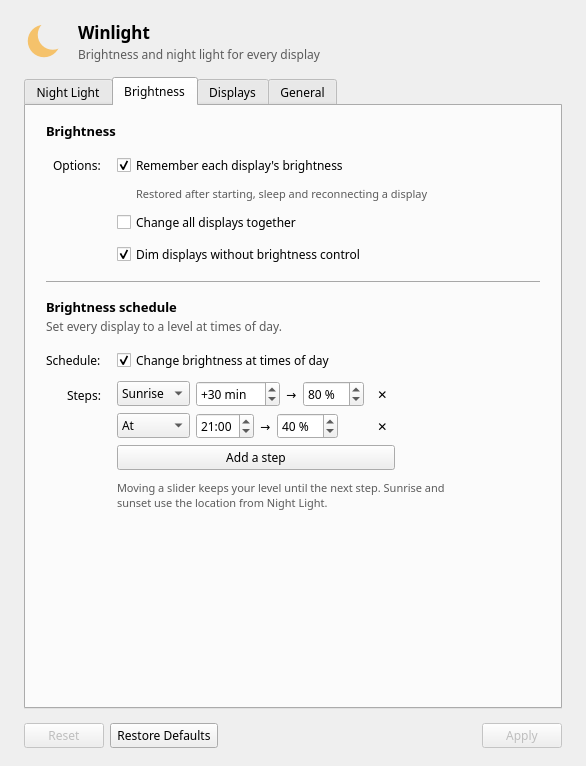
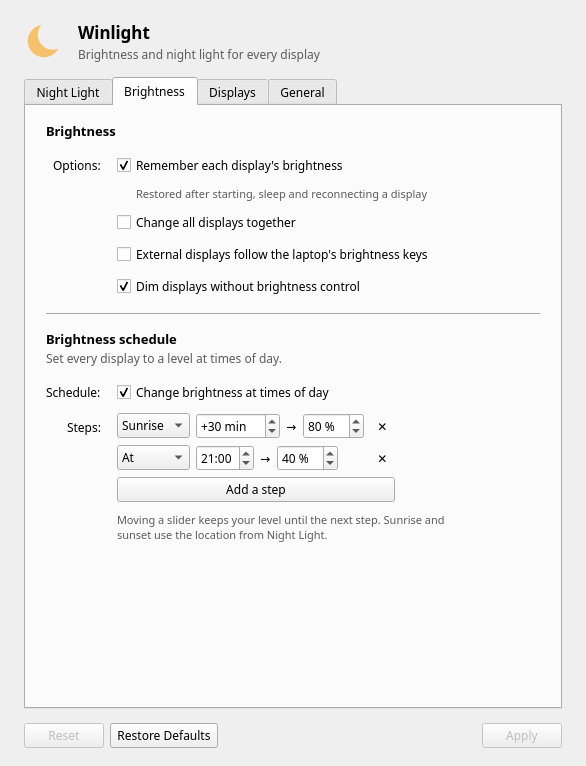
Docs: privacy, focus, laptop keys and wake timings
README features and known limits, both test plans (what to try and what
to send back, including the wake timing lines), and the design notes.
Screenshots show the new Brightness option.

Changed region(s): [[0.0614, 0.3303, 0.7679, 0.7206]]

diff --git a/README.md b/README.md
@@ -48,6 +48,10 @@ Brightness and night light for every display on Windows: external monitors, TVs 
 | Night light back at once after unlock and sleep | 🧪 Needs Windows testing | Listens for Windows' unlock, wake and display-on events, and checks the ramps every 1.5 s. |
 | Windows Night Light notice | 🧪 Needs Windows testing | Detects Windows Night Light from its registry state (undocumented) and offers to open its setting. |
 | One-click diagnostics, crash safe mode | 🧪 Needs Windows testing | "Report a Problem…" saves a zip and copies a summary; a display whose DDC/CI crashed or hung the app is skipped until retried. |
+| Private logs and reports | 🧪 Needs Windows testing | User name, computer name, home folder and emails are scrubbed from every log line and report; no location, custom names or listed app names are written. |
+| Never steals focus from fullscreen games | 🧪 Needs Windows testing | Windows' "don't interrupt" state and fullscreen detection keep Winlight from opening windows on its own over a game, video or presentation. |
+| Laptop brightness keys move external displays too | 🧪 Needs Windows testing | Optional. Follows the laptop panel's level rather than intercepting the keys. |
+| Displays followed after sleep | 🧪 Needs Windows testing | Re-detection at 2 s to 2 min after waking, each pass logged with its timing, stopping once every display is back. |
 | Multi-display detection, hotplug and sleep | 🧪 Needs Windows testing | Re-detection after display changes and waking, several times, as monitors are often slow to answer. |
 | Start at sign-in, start minimized | ✅ Ready | The current user's Run registry key; no administrator rights. |
 | Installer, portable zip, uninstaller | ✅ Ready | Per-user, built by GitHub Actions. |
@@ -99,6 +103,7 @@ Most of these were learned from [Monitorian](https://github.com/emoacht/Monitori
 - Most TVs don't support DDC/CI.
 - Gamma ramps belong to displays, not windows, so pausing night light for an app pauses it for that app's whole display.
 - Windows Night Light's state has no API; Winlight reads its undocumented registry value, and shows nothing if it can't tell.
+- Laptop brightness keys are handled by the laptop's firmware and Windows, not passed to apps, so Winlight can't take them over. It follows the brightness they set instead, which is reliable and doesn't need a keyboard hook (which games' anti-cheat may flag).
 - Running alongside Windows Night Light, f.lux or GPU color settings (such as AMD's "Custom Colors") may cause conflicts.
 
 ## 🗺 Roadmap
@@ -146,7 +151,9 @@ Display numbers are the order in the panel and in `--list`. Changes fade rather 
 
 ## 🐞 Reporting a problem
 
-Right-click the tray icon and choose **Report a Problem…**. Winlight saves a `Winlight-diagnostics-….zip` to your Desktop (logs, settings with the location rounded, and what it knows about each display) and copies a summary to the clipboard. Open an [issue](https://github.com/Arnie14/Night-Light-Windows/issues), paste the summary and attach the zip.
+Right-click the tray icon and choose **Report a Problem…**. Winlight saves a `Winlight-diagnostics-….zip` to your Desktop (logs, settings, and what it knows about each display) and copies a summary to the clipboard.
+
+Reports are meant to be posted publicly, so nothing personal goes in: your user name, computer name, home folder and email addresses are replaced with placeholders in every file, and your location, city, custom display names and the names of apps you listed aren't included at all. The same goes for the log file itself. Open an [issue](https://github.com/Arnie14/Night-Light-Windows/issues), paste the summary and attach the zip.
 
 ## ⬇ Download details
 
@@ -240,6 +247,9 @@ nightlight/
   commands.py, cli.py    the command line (winlight-cli) and what the app does for it
   diagnostics.py         "Report a Problem…"
   safe_mode.py           skipping displays whose DDC/CI crashed or hung the app
+  privacy.py             scrubbing personal details from logs and reports
+  brightness_keys.py     external displays following the laptop's brightness keys
+  wake_report.py         re-detecting displays after sleep, with timings in the log
   data/                  time zone table for picking a location (from tools/make_timezones.py)
 packaging/               Windows build: PyInstaller spec, Inno Setup script, icon, build.py
 tools/                   screenshots.py (README images), make_timezones.py

diff --git a/docs/windows-notes.md b/docs/windows-notes.md
@@ -194,6 +194,14 @@ Reading [Monitorian](https://github.com/emoacht/Monitorian), [Twinkle Tray](http
 - **One-click diagnostics** (Monitorian's FAQ asks for probe and operation logs; collecting them by hand is where reports stall).
   - ✅ Tray > Report a Problem…: a zip on the Desktop (summary, logs, settings with the location rounded) and the summary on the clipboard. No DDC/CI scan or tint, so it's safe any time.
 - **Smooth changes.** Starting at night fades in, quitting fades out, pausing and resuming fade, scheduled and command-line brightness changes fade.
+- **Not stealing focus from games.** Opening a window over an exclusive-fullscreen game can minimize it.
+  - ✅ `winsystem.user_busy()`: Windows' `SHQueryUserNotificationState` (busy, Direct3D fullscreen, presentation mode) or a fullscreen app in front. Winlight then doesn't open windows on its own (a second launch's panel, settings at sign-in); a setting, on by default. Opening it from the tray is never blocked (that click already left the game).
+- **Laptop brightness keys** (Twinkle Tray's hotkey settings note that Windows still handles them and laptop firmware may intercept them; #570 asks to follow WmiMonitorBrightnessEvent instead).
+  - ✅ `brightness_keys.py` doesn't intercept keys: it follows the panel's level, from Windows' power-setting notification for display brightness (`aded5e82-…`, when Windows sends it) and a 2 s check of the panel while the option is on, and sets external displays to match. Changes the app made itself within 2 s are its own echo and ignored, so the panel's own slider doesn't move the others. Testing will show which source fires on which laptops.
+- **After sleep**, the most reported DDC/CI problem in both projects.
+  - ✅ `wake_report.py`: re-detection at 2, 5, 10, 20, 30, 60 and 120 s after waking (Monitorian: 5–60 s), each pass logged with its time since waking, who answered and how long detection took, and a summary (also in diagnostics). It stops once every display that answered before sleep has answered twice in a row. Schedules now add up instead of replacing each other, so a display change right after waking no longer cuts the wake's schedule short; Windows' event and the clock check reporting the same wake count once.
+- **Privacy in logs and reports**: they get posted publicly.
+  - ✅ `privacy.py`: every log line and traceback, and every file in a report (old log lines too), has the user name, computer name, home folder and email addresses replaced. Nothing writes coordinates, cities, time zones, custom display names, listed app names (logged as "a listed app"), or command-line arguments. Report timestamps are in UTC.
 
 ## 9. Quirks and issues they ran into
 

diff --git a/docs/testing-installer.md b/docs/testing-installer.md
@@ -32,6 +32,7 @@ In the panel, click ⚙ (Settings):
 - [ ] **Sleep** the PC and wake it: same.
 - [ ] Settings → Night Light → tick **While an app is fullscreen**, Apply. Play a video fullscreen or start a game: that display fades to normal colors, the others stay warm. Leave fullscreen: it fades back.
 - [ ] Add an app under **For these apps** (e.g. your photo editor), Apply, and switch to it: the same happens while it's in front.
+- [ ] With a game or video fullscreen, start Winlight again from the Start menu: nothing pops up over it, and the game keeps focus.
 - [ ] Switch back to your usual schedule (custom times or sunset/sunrise).
 
 ## 4. Brightness
@@ -41,6 +42,8 @@ In the panel, click ⚙ (Settings):
 - [ ] Tick **Change all displays together**, Apply: one slider moves them all.
 - [ ] Turn on the **Brightness schedule** with a step a minute or two from now, Apply: at that time every display fades to the step's level. Move a slider afterwards: your level stays until the next step.
 - [ ] Settings → **Displays**: rename one, untick "Show in panel" for another, Apply. The panel uses the new name and leaves out the hidden one.
+- [ ] Laptop with an external monitor: tick **External displays follow the laptop's brightness keys**, Apply, and press the brightness keys: the external monitor follows within about 2 seconds.
+- [ ] Sleep the PC for a few minutes with a monitor connected, wake it, and wait 2 minutes before **Report a Problem…**: the summary's "Last wake from sleep" section shows when each display answered again.
 
 ## 5. Command line (optional)
 
@@ -59,4 +62,4 @@ In a new terminal (or use the full path `%LOCALAPPDATA%\Programs\Winlight\winlig
 
 ## 7. Send it back
 
-Even if everything worked, a **Report a Problem…** zip is useful: it shows how each of your displays was detected.
+Even if everything worked, a **Report a Problem…** zip is useful: it shows how each of your displays was detected. It doesn't contain your user name, computer name, location or custom display names; you can open it and check before sending.

diff --git a/docs/windows-testing.md b/docs/windows-testing.md
@@ -209,6 +209,13 @@ Command line (`winlight-cli.exe` next to `Winlight.exe`, or `python main.py …`
 - [ ] Errors say why and exit with 1 (try `--display 9` and `--set bright`); with Winlight not running it says so and exits with 2 (`echo %ERRORLEVEL%`).
 - [ ] From AutoHotkey or a `.bat` file: works, and waits for the result.
 
+Focus, keys, sleep and privacy:
+
+- [ ] Start a game in exclusive fullscreen (and one in borderless fullscreen, and a fullscreen video). Then start `Winlight.exe` again (or use a hotkey tool that launches it): the panel does **not** appear and the game keeps focus; the log says "Not opening the panel over a fullscreen app". The same with "Start minimized" off at sign-in. Untick Settings > General > "Never open over fullscreen…": then it does open.
+- [ ] Laptop: tick Settings > Brightness > "External displays follow the laptop's brightness keys". Press the brightness keys: external displays follow within about 2 s. The log says whether Windows reported it ("noticed by Windows") or the check found it ("noticed by a check of the panel"); please note which. Dragging the laptop's own slider in the panel does **not** move the others (unless "Change all displays together" is on).
+- [ ] Sleep for a few minutes and wake: the log has "After waking +N s: …" lines for each pass and a "Wake summary". Note how long each external monitor took to answer. Please send these lines even when everything works; they show how long monitors take on your hardware.
+- [ ] Open `night-light.log` and a Report a Problem zip: your Windows user name, computer name and email don't appear anywhere (look for `<user>`, `<computer>`, `<home>` instead), nor your city, coordinates, custom display names or the apps you listed.
+
 Diagnostics and safe mode:
 
 - [ ] Tray > Report a Problem…: a zip appears on the Desktop with summary.txt, settings.json (location rounded) and the logs; the summary is on the clipboard; the buttons show the file and open GitHub. `winlight-cli --diagnostics` does the same and prints the path.
